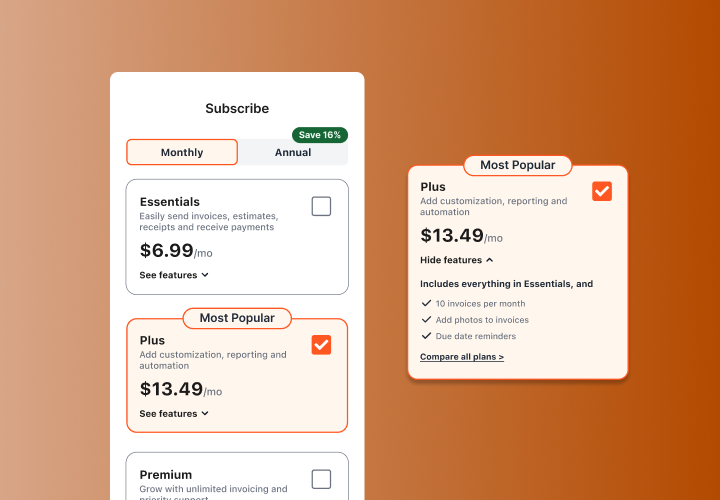
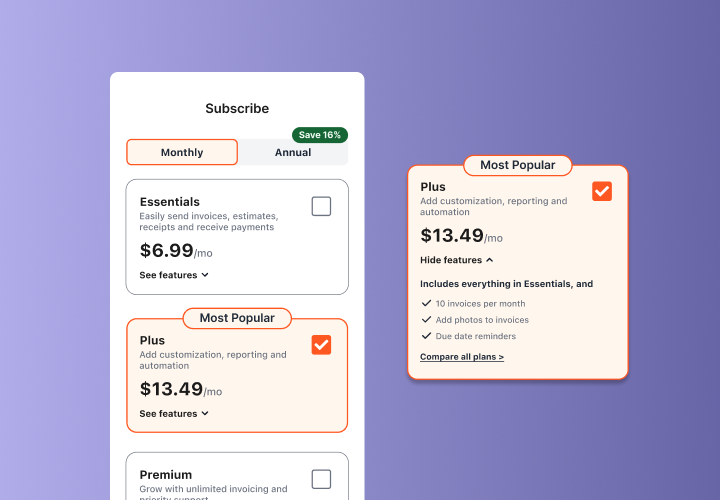
update content

diff --git a/pages/qb-checkout-portal.tsx b/pages/qb-checkout-portal.tsx
@@ -37,7 +37,7 @@ const Checkout = () => (
             </Paragraph>
             <Paragraph>
                 <span className='bold'>Result:</span>
-                &nbsp;Facilitation of 2 new payment channels
+                &nbsp;Facilitation of 2 new payment channels and streamlined automation workflow
             </Paragraph>
         </Section>
 
@@ -72,14 +72,6 @@ const Checkout = () => (
                     elements and surface automation features?
                 </Strong>
             </IndentInner>
-            <Paragraph>
-                Due to a non-disclosure agreement (<abbr>NDA</abbr>), I can't go through an in-depth
-                discussion of this initiative here. If you'd like to learn more, don't hesitate to{' '}
-                <Link href='mailto:[email redacted]' legacyBehavior>
-                    <a className='activeLink inBodyLink'>get in touch↗&#xFE0E;</a>
-                </Link>
-                .
-            </Paragraph>
         </Section>
 
         <Section ends>
@@ -105,6 +97,12 @@ const Checkout = () => (
                 there was a compromise to be made between preserving workflow simplicity and
                 surfacing important information about what payment automation entails.
             </Paragraph>
+            <Strong>
+                Want to learn more? Don't hesistate to{' '}
+                <Link href='mailto:[email redacted]' legacyBehavior>
+                    <a className='activeLink inBodyLink bold'>get in touch↗&#xFE0E;</a>
+                </Link>
+            </Strong>
         </Section>
     </>
 );

diff --git a/pages/ops-pick-history.tsx b/pages/ops-pick-history.tsx
@@ -37,7 +37,7 @@ const History = () => (
             </Paragraph>
             <Paragraph>
                 <span className='bold'>Platform:</span>
-                &nbsp;Desktop Web
+                &nbsp;Desktop
             </Paragraph>
             <Paragraph>
                 <span className='bold'>Result:</span>